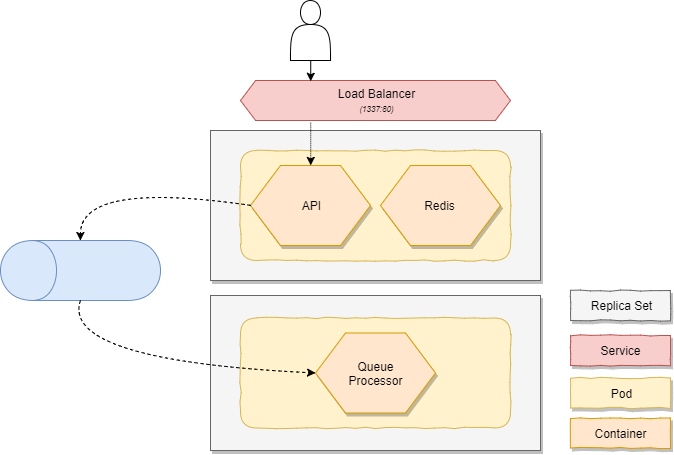
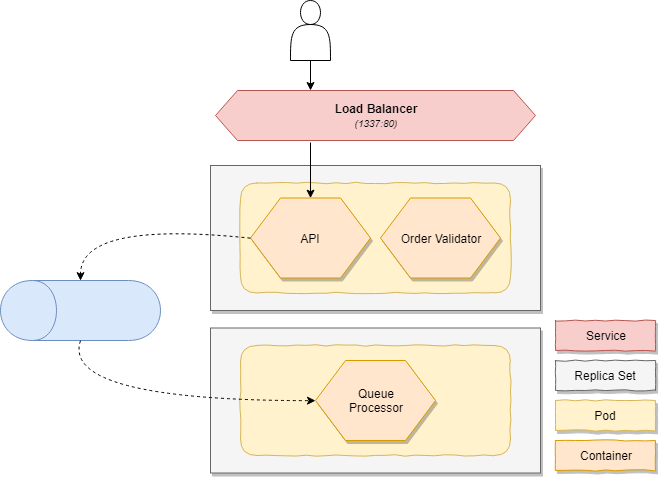
Remove Redis and add Orders Validator sidecar (docs & deployment) (#37)
* Add orders validator as sidecar instead of Redis (Mesh)

* K8s deployment template (unfinished)

* Finalize Kubernetes template

* Remove Redis as sidecar

* Update Service Fabric Mesh overview

* Update Kubernetes composition doc

* Update documentation to include sidecar

diff --git a/docs/kubernetes-composition.md b/docs/kubernetes-composition.md
@@ -3,7 +3,7 @@ The application is modelled in multiple **deployments** which each deploy **repl
 
 Replica Sets are a way of what **pods** it should be running and can be scaled independently from other Replica Sets; either manually or automatically. In our scenario we will have a replica set for our API & our asynchornous worker so that they can be scaling based on their specific needs. In our scenario we would prefer to scale the worker out when messages on the queue pile up while we'd like to scale our API based on CPU and/or memory.
 
-A pod can have multiple **containers** running next to each other and are scaled together. You should avoid having too many containers running in one pod but it allows you to use patterns such as the [Sidecar pattern](https://docs.microsoft.com/en-us/azure/architecture/patterns/sidecar).
+A pod can have multiple **containers** running next to each other and form a scale unit. In our case, this is represented by our API container which is using the orders validator [sidecar](https://docs.microsoft.com/en-us/azure/architecture/patterns/sidecar).
 
 ![Kubernetes](./../media/docs/kubernetes-composition.png)
 
@@ -12,9 +12,3 @@ Unfortunately Kuberenetes does not have the concept of "an application" which re
 Another interesting aspect is that every entity is also capable of providing metadata about itself by assinging **labels**. In our scenario every entity is deployed in a dedicated namespace and has at least the following labels - `app`, `microservice`, `service`, `type`.
 
 By using a **service** we can expose our API to the internet. This entity is using the labels that we have assigned to forward traffic to the internal port of the container inside the pod by using port forwarding.
-
-----------------------------
-
-:rotating_light: _This scenario runs a Redis instance in the same pod as the API. While this might seem perfect, they have different scaling needs and you should not do this but in this scenario I'm using this to indicate how you can run multiple containers in one pod._
-
-----------------------------

diff --git a/docs/service-fabric-mesh-composition.md b/docs/service-fabric-mesh-composition.md
@@ -3,14 +3,8 @@ The application is modelled in to one **application** which contains two service
 
 **Services** allow you to define parts of an application that can be scaled independently from other services. In our scenario we would prefer to scale the worker out when messages on the queue pile up while we'd like to scale our API based on CPU and/or memory.
 
-A service can have multiple **code packages** which are basically Docker containers running next to each other and are scaled together. You should avoid having too many code packages in one service but allow you to use patterns such as the [Sidecar pattern](https://docs.microsoft.com/en-us/azure/architecture/patterns/sidecar).
+A service can have multiple **code packages** which are basically Docker containers running next to each other and form a scale unit. In our case, this is represented by our API container which is using the orders validator [sidecar](https://docs.microsoft.com/en-us/azure/architecture/patterns/sidecar).
 
 ![Service Fabric Mesh](./../media/docs/service-fabric-mesh-composition.png)
 
 The API service is part of a **network** which is exposing the API to the internet. To achive this, the service defines an endpoint with its internal port which is referenced in the network configuration and assigns a public port to leverage port forwarding.
-
-----------------------------
-
-:rotating_light: _This scenario runs a Redis instance in the same service as the API. While this might seem perfect, they have different scaling needs and you should not do this but in this scenario I'm using this to indicate how you can run multiple containers in one service._
-
-----------------------------
